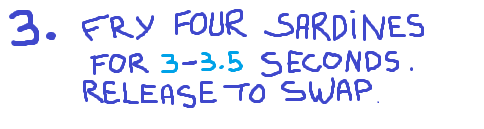
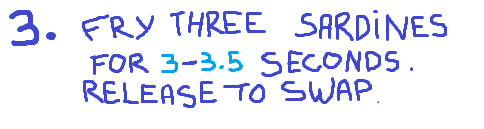
level 6

Changed region(s): [[0.3409, 0.062, 0.9298, 0.3411]]

diff --git a/index.html b/index.html
@@ -25,16 +25,28 @@
 <img src=rules3.png id=rules3 hidden>
 <img src=rules4.png id=rules4 hidden>
 <img src=rules5.png id=rules5 hidden>
+<img src=rules6.png id=rules6 hidden>
+<img src=rules7.png id=rules7 hidden>
+<img src=rules8.png id=rules8 hidden>
+<img src=rules9.png id=rules9 hidden>
 <img src=food1.png id=food1 hidden>
 <img src=food2.png id=food2 hidden>
 <img src=food3.png id=food3 hidden>
 <img src=food4.png id=food4 hidden>
 <img src=food5.png id=food5 hidden>
+<img src=food6.png id=food6 hidden>
+<img src=food7.png id=food7 hidden>
+<img src=food8.png id=food8 hidden>
+<img src=food9.png id=food9 hidden>
 <img src=foodend1.png id=foodend1 hidden>
 <img src=foodend2.png id=foodend2 hidden>
 <img src=foodend3.png id=foodend3 hidden>
 <img src=foodend4.png id=foodend4 hidden>
 <img src=foodend5.png id=foodend5 hidden>
+<img src=foodend6.png id=foodend6 hidden>
+<img src=foodend7.png id=foodend7 hidden>
+<img src=foodend8.png id=foodend8 hidden>
+<img src=foodend9.png id=foodend9 hidden>
 <body style="overflow:hidden;font-family:pangolin">.
 <canvas id=a style="position:fixed;top:50%;left:50%;transform:translateX(-50%)translateY(-50%);cursor:pointer;width:100vmin;height=100vmin;">
 
@@ -42,7 +54,7 @@
 state = 0;
 white = 0;
 win = 0;
-level = 0;
+level = 6;
 fry = 0;
 released = 0;
 showtime = 0;
@@ -57,13 +69,16 @@ tooraw = 0;
 burnt = 0;
 waittimer = 0;
 
+if(!level) level = 1;
+
 levels = [
   , // 0: no
   [{min: 9, max: 10}], // 1: 9-10s
   [{min: 5, max: 6},{min: 5, max: 6}], // 2: 2 x 5-6s
-  [{min: 3, max: 3.5},{min: 3, max: 3.5},{min: 3, max: 3.5},{min: 3, max: 3.5}], // 3: 5 x 3-3.5s
+  [{min: 3, max: 3.5},{min: 3, max: 3.5},{min: 3, max: 3.5}], // 3: 3 x 3-3.5s
   [{min: 18, max: 20}], // 4: 18-20
-  [{min: 0, max: 0}], // 4: wait 15
+  [{min: 0, max: 0}], // 5: wait 15
+  [{min: 12, max: 13},{min: 12, max: 13},{min: 12, max: 13},{min: 12, max: 13}], // 6: total: 12-13
 
 ];
 
@@ -73,7 +88,8 @@ variants = [
   0, // 2: flip (default)
   "swap", // 3: swap,
   0, // 4: no
-  "wait", // 5: wait 
+  "wait", // 5: wait
+  "total", // 6: total
 ]
 
 scores = [
@@ -162,6 +178,7 @@ draw = () => {
       for(i in scores[level]){
         str += (+i ? " + " : "") + (scores[level][i]/1000).toFixed(2)
       }
+      if(level == 6) str += " = " + (scores[level][0] + scores[level][1] + scores[level][2] + scores[level][3])/1000;
       c.fillText(str, W/2, 250);
       c.textAlign = 'start';
     }
@@ -173,9 +190,24 @@ draw = () => {
       burnt = 0;
     
       if(level == 5){
-        console.log(scores[level]);
         if(scores[level][0] > 0) burnt = 1;
         else burnt = 0;
+      }
+      
+      else if(level == 6){
+        if(scores[level][0] + scores[level][1] + scores[level][2] + scores[level][3] < 12*1000){
+          tooraw = 1;
+          win = 0;
+        }
+        else if(scores[level][0] + scores[level][1] + scores[level][2] + scores[level][3] > 13*1000){
+          burnt = 1;
+          win = 0;
+        }
+        if(!scores[level].find(a=>a>=2*1000 && a<=3*1000) && !scores[level].find(a=>a>=5*1000 && a<=6*1000)){
+          burnt = 1;
+          tooraw = 1;
+          win = 0;
+        }
       }
       
       else {
@@ -185,6 +217,7 @@ draw = () => {
             win = 0;
           }
           else if(scores[level][i] >= levels[level][i].min * 1000 && scores[level][i] <= levels[level][i].max * 1000){
+            // win
           }
           else if(scores[level][i]  > levels[level][i].max * 1000){
             burnt = 1;
@@ -225,7 +258,7 @@ draw = () => {
     }
     
     // swap animation
-    if(!md && flip && variants[level] == "swap"){
+    if(!md && flip && (variants[level] == "swap" || variants[level] == "total")){
       c.drawImage(pan1, W/2 - 250, H/2 - 60);
       c.save();
       c.translate(W/2 + 110, H/2 - 30);
